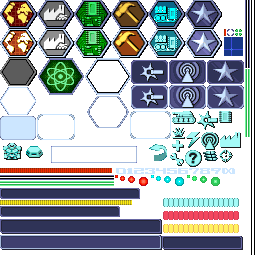
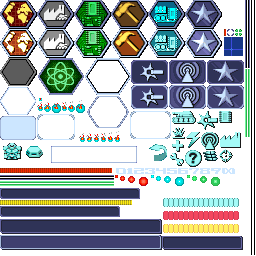
Show oil wells burning in the radar instead of pulsing.

Changed region(s): [[0.125, 0.375, 0.3438, 0.4375], [0.3125, 0.5312, 0.4688, 0.5625]]

diff --git a/src/intdisplay.c b/src/intdisplay.c
@@ -92,9 +92,6 @@
 
 #define FORM_OPEN_ANIM_DURATION		(GAME_TICKS_PER_SEC/6) // Time duration for form open/close anims.
 
-//number of pulses in the blip for the radar
-#define NUM_PULSES			3
-
 //the loop default value
 #define DEFAULT_LOOP		1
 
@@ -3062,6 +3059,11 @@ void drawRadarBlips(int radarX, int radarY, float pixSizeH, float pixSizeV)
 	UDWORD			i;
 	SDWORD width, height;
 	int		x = 0, y = 0;
+	static const uint16_t imagesEnemy[] = {IMAGE_RAD_ENMREAD, IMAGE_RAD_ENM1, IMAGE_RAD_ENM2, IMAGE_RAD_ENM3};
+	static const uint16_t imagesResource[] = {IMAGE_RAD_RESREAD, IMAGE_RAD_RES1, IMAGE_RAD_RES2, IMAGE_RAD_RES3};
+	static const uint16_t imagesArtifact[] = {IMAGE_RAD_ARTREAD, IMAGE_RAD_ART1, IMAGE_RAD_ART2, IMAGE_RAD_ART3};
+	static const uint16_t imagesBurningResource[] = {IMAGE_RAD_BURNRESREAD, IMAGE_RAD_BURNRES1, IMAGE_RAD_BURNRES2, IMAGE_RAD_BURNRES3, IMAGE_RAD_BURNRES4, IMAGE_RAD_BURNRES5, IMAGE_RAD_BURNRES6};
+	static const uint16_t *const imagesProxTypes[] = {imagesEnemy, imagesResource, imagesArtifact};
 
 	// store the width & height of the radar/mini-map
 	width = scrollMaxX - scrollMinX;
@@ -3097,7 +3099,8 @@ void drawRadarBlips(int radarX, int radarY, float pixSizeH, float pixSizeV)
 	/* Go through all the proximity Displays */
 	for (psProxDisp = apsProxDisp[selectedPlayer]; psProxDisp != NULL; psProxDisp = psProxDisp->psNext)
 	{
-		PROX_TYPE	proxType;
+		unsigned        animationLength = ARRAY_SIZE(imagesEnemy) - 1;  // Same size as imagesResource and imagesArtifact.
+		const uint16_t *images;
 
 		if (psProxDisp->psMessage->player != selectedPlayer)
 		{
@@ -3106,7 +3109,8 @@ void drawRadarBlips(int radarX, int radarY, float pixSizeH, float pixSizeV)
 
 		if (psProxDisp->type == POS_PROXDATA)
 		{
-			proxType = ((VIEW_PROXIMITY*)((VIEWDATA *)psProxDisp->psMessage->pViewData)->pData)->proxType;
+			PROX_TYPE proxType = ((VIEW_PROXIMITY*)((VIEWDATA *)psProxDisp->psMessage->pViewData)->pData)->proxType;
+			images = imagesProxTypes[proxType];
 		}
 		else
 		{
@@ -3115,32 +3119,33 @@ void drawRadarBlips(int radarX, int radarY, float pixSizeH, float pixSizeV)
 			ASSERT(psFeature && psFeature->psStats, "Bad feature message");
 			if (psFeature && psFeature->psStats && psFeature->psStats->subType == FEAT_OIL_RESOURCE)
 			{
-				proxType = PROX_RESOURCE;
+				images = imagesResource;
+				if (fireOnLocation(psFeature->pos.x, psFeature->pos.y))
+				{
+					images = imagesBurningResource;
+					animationLength = ARRAY_SIZE(imagesBurningResource) - 1;  // Longer animation for burning oil wells.
+				}
 			}
 			else
 			{
-				proxType = PROX_ARTEFACT;
+				images = imagesArtifact;
 			}
 		}
 
 		// Draw the 'blips' on the radar - use same timings as radar blips if the message is read - don't animate
 		if (psProxDisp->psMessage->read)
 		{
-			imageID = IMAGE_RAD_ENM3 + (proxType * (NUM_PULSES + 1));
+			imageID = images[0];
 		}
 		else
 		{
 			// Draw animated
-			if ((gameTime2 - psProxDisp->timeLastDrawn) > delay)
+			if (realTime - psProxDisp->timeLastDrawn > delay)
 			{
-				psProxDisp->strobe++;
-				if (psProxDisp->strobe > (NUM_PULSES-1))
-				{
-					psProxDisp->strobe = 0;
-				}
-				psProxDisp->timeLastDrawn = gameTime2;
+				psProxDisp->strobe = (psProxDisp->strobe + 1) % animationLength;
+				psProxDisp->timeLastDrawn = realTime;
 			}
-			imageID = (UWORD)(IMAGE_RAD_ENM1 + psProxDisp->strobe + (proxType * (NUM_PULSES + 1)));
+			imageID = images[1 + psProxDisp->strobe];
 		}
 
 		if (psProxDisp->type == POS_PROXDATA)
@@ -3173,10 +3178,11 @@ void drawRadarBlips(int radarX, int radarY, float pixSizeH, float pixSizeV)
 	}
 	if (audio_GetPreviousQueueTrackRadarBlipPos(&x, &y))
 	{
-		int strobe = (gameTime2/delay)%NUM_PULSES;
+		unsigned        animationLength = ARRAY_SIZE(imagesEnemy) - 1;
+		int             strobe = (realTime/delay) % animationLength;
 		x = (x / TILE_UNITS - scrollMinX) * pixSizeH;
 		y = (y / TILE_UNITS - scrollMinY) * pixSizeV;
-		imageID = (UWORD)(IMAGE_RAD_ENM1 + strobe + (PROX_ENEMY * (NUM_PULSES + 1)));
+		imageID = imagesEnemy[strobe];
 		
 		// NOTE:  On certain missions (limbo & expand), there is still valid data that is stored outside the
 		// normal radar/mini-map view.  We must now calculate the radar/mini-map's bounding box, and clip

diff --git a/src/intfac.h b/src/intfac.h
@@ -549,7 +549,14 @@ enum {
 	IMAGE_CURSOR_ATTACH,
 	IMAGE_CURSOR_BRIDGE,
 	IMAGE_CURSOR_BOMB,
-	IMAGE_SLIDER_AI
+	IMAGE_SLIDER_AI,
+	IMAGE_RAD_BURNRESREAD,
+	IMAGE_RAD_BURNRES1,
+	IMAGE_RAD_BURNRES2,
+	IMAGE_RAD_BURNRES3,
+	IMAGE_RAD_BURNRES4,
+	IMAGE_RAD_BURNRES5,
+	IMAGE_RAD_BURNRES6
 };
 
 #ifdef __cplusplus
